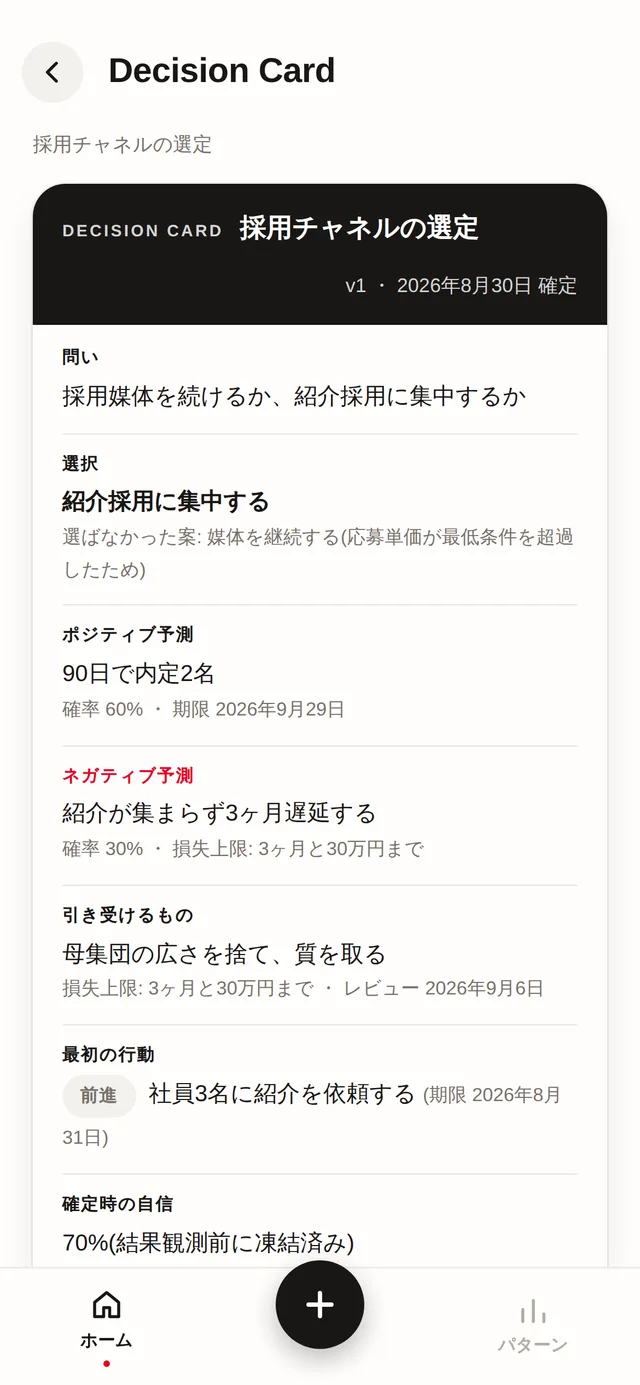
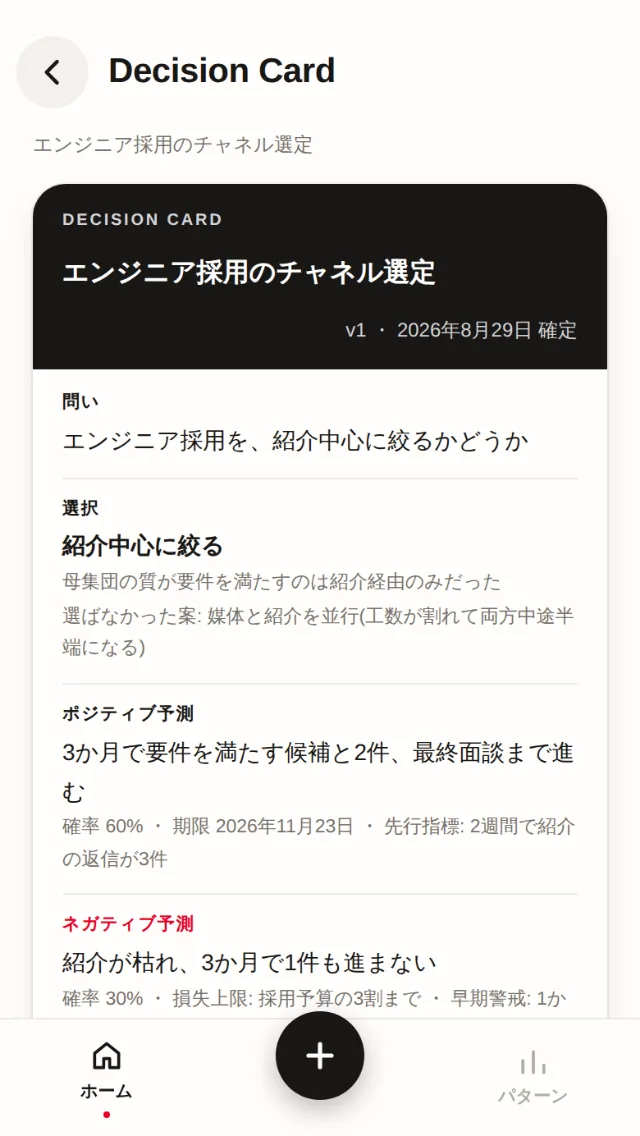
LPのアプリ画像を、いまの画面で撮り直す
載せていた3枚は黒い帯を入れる前のもので、LPからアプリへ来たときに
見えるものと違っていた。実際に動いているアプリを撮り直して差し替える。

- ヒーローを書き出しの会話から、ホーム画面に変えた。
  上端が黒くなったので、LPの黒からそのまま続いて見える。
  「開いたらすぐ書ける」という最初の体験もこの1枚で伝わる。
- 書き出し・診断・Decision Card の3枚も撮り直した。
  診断は問答が2往復進んだ状態にして、答えが項目へ振り分けられ
  「記録しました」と返るところまで見えるようにした。
- 画像の高さが 1385 → 1136 に変わったので、width/height も揃えた
  (ずれているとレイアウトが飛ぶ)。
- ヒーローの画面がLPの黒に溶けて端が消えるので、枠線を少し強くした。

撮影は本番ビルドを起動して行った(開発時のバッジが写り込むため)。
記録は画面ごとに仕込み、実在しない画面や作り物のカードは使っていない。
1枚 23〜46KB、4枚で158KB。WebPのままで、読み込みの重さは変えていない。

確認: 幅390pxで4枚とも読み込め、404なし、エラーなし。

Claude-Session: https://claude.ai/code/session_01HqrBWNBqZMmQbX2kaNeDGn

diff --git a/lp/app/page.tsx b/lp/app/page.tsx
@@ -37,7 +37,7 @@ export default function Home() {
         <p className="microcopy">決断2件まで無料・カード不要・登録なしで書き出せます</p>
         <button className="ghostLink" onClick={scrollToDemo}>先に3つの質問で試す →</button>
       </div>
-      <div className="phoneWrap"><div className="phoneIntro"><span>決断力を高めるアプリ</span><strong>Decision Making</strong></div><div className="shotFrame"><img src="/app/journal.webp" width={640} height={1385} fetchPriority="high" decoding="async" alt="迷っていることを話すと、決めるべきことが候補として挙がってくる書き出し画面" /></div><p className="shotCap">迷っていることを話すだけ。決めるべきことは、アプリが拾います。</p></div>
+      <div className="phoneWrap"><div className="phoneIntro"><span>決断力を高めるアプリ</span><strong>Decision Making</strong></div><div className="shotFrame"><img src="/app/home.webp" width={640} height={1136} fetchPriority="high" decoding="async" alt="迷っていることをそのまま書き出せるアプリのホーム画面" /></div><p className="shotCap">開いたら、すぐ書ける。迷いを話すだけで、決めるべきことはアプリが拾います。</p></div>
     </section>
 
     <section className="quoteFeature" aria-labelledby="zuckerberg-quote">
@@ -62,7 +62,7 @@ export default function Home() {
       <article><b>02</b><strong>決められない理由を診断</strong><p>情報・基準・権限・感情・実行のどこで止まっているかを見つける。</p></article>
       <article><b>03</b><strong>決断を確定する</strong><p>選択、理由、予測、受け入れる損失をDecision Cardに残す。</p></article>
       <article><b>04</b><strong>行動し、振り返る</strong><p>24時間以内の一歩を決め、結果と予測のズレから学ぶ。</p></article>
-    </div><div className="shotRow"><figure className="shotItem"><div className="shotFrame"><img src="/app/journal.webp" width={640} height={1385} loading="lazy" decoding="async" alt="書き出しの会話画面" /></div><figcaption><b>書き出す</b>話すだけで、決めるべきことが候補に挙がる</figcaption></figure><figure className="shotItem"><div className="shotFrame"><img src="/app/diagnose.webp" width={640} height={1385} loading="lazy" decoding="async" alt="診断の会話画面" /></div><figcaption><b>診断する</b>答えは自動で項目に振り分けられ、記録に残る</figcaption></figure><figure className="shotItem"><div className="shotFrame"><img src="/app/card.webp" width={640} height={1385} loading="lazy" decoding="async" alt="Decision Card" /></div><figcaption><b>確定する</b>選択・予測・損失上限・最初の行動を1枚に</figcaption></figure></div></section>
+    </div><div className="shotRow"><figure className="shotItem"><div className="shotFrame"><img src="/app/journal.webp" width={640} height={1136} loading="lazy" decoding="async" alt="書き出しの会話画面" /></div><figcaption><b>書き出す</b>話すだけで、決めるべきことが候補に挙がる</figcaption></figure><figure className="shotItem"><div className="shotFrame"><img src="/app/diagnose.webp" width={640} height={1136} loading="lazy" decoding="async" alt="診断の会話画面" /></div><figcaption><b>診断する</b>答えは自動で項目に振り分けられ、記録に残る</figcaption></figure><figure className="shotItem"><div className="shotFrame"><img src="/app/card.webp" width={640} height={1136} loading="lazy" decoding="async" alt="Decision Card" /></div><figcaption><b>確定する</b>選択・予測・損失上限・最初の行動を1枚に</figcaption></figure></div></section>
 
     <section className="learning section"><p className="sectionNo">03 — LEARNING</p><h2>決めたフリは、<br/>成長を完全に止める。</h2><p className="learningLead">曖昧なまま進めると、良い結果だけを自分のものにし、悪い結果を外部環境のせいにできます。アプリは決断前の予測を残し、結果とのズレを同じ物差しで振り返ります。</p><div className="compare"><div><span>決めたフリをすると</span><strong>上手くいかなければ、説明を変える。</strong><p>何を決めたかが曖昧なため、失敗も学びも残らない。</p></div><div><span>DECISION MAKING なら</span><strong>結果を受け入れ、判断基準を更新する。</strong><p>悪い結果とのズレが、次の決断を良くする材料になる。</p></div></div></section>
 

diff --git a/lp/app/globals.css b/lp/app/globals.css
@@ -108,3 +108,7 @@ a.primary{align-items:center;text-decoration:none}
   .quoteFeature .quoteCopy{order:1}
   .quoteFeature .quotePortrait{order:2}
 }
+
+/* ヒーローの画面は黒地のアプリになったので、LPの黒に溶けて端が消える。
+   縁を少し強くして、画面がそこにあると分かるようにする */
+.phoneWrap .shotFrame{box-shadow:0 22px 46px rgba(0,0,0,.55),0 0 0 1px rgba(255,255,255,.28)}
